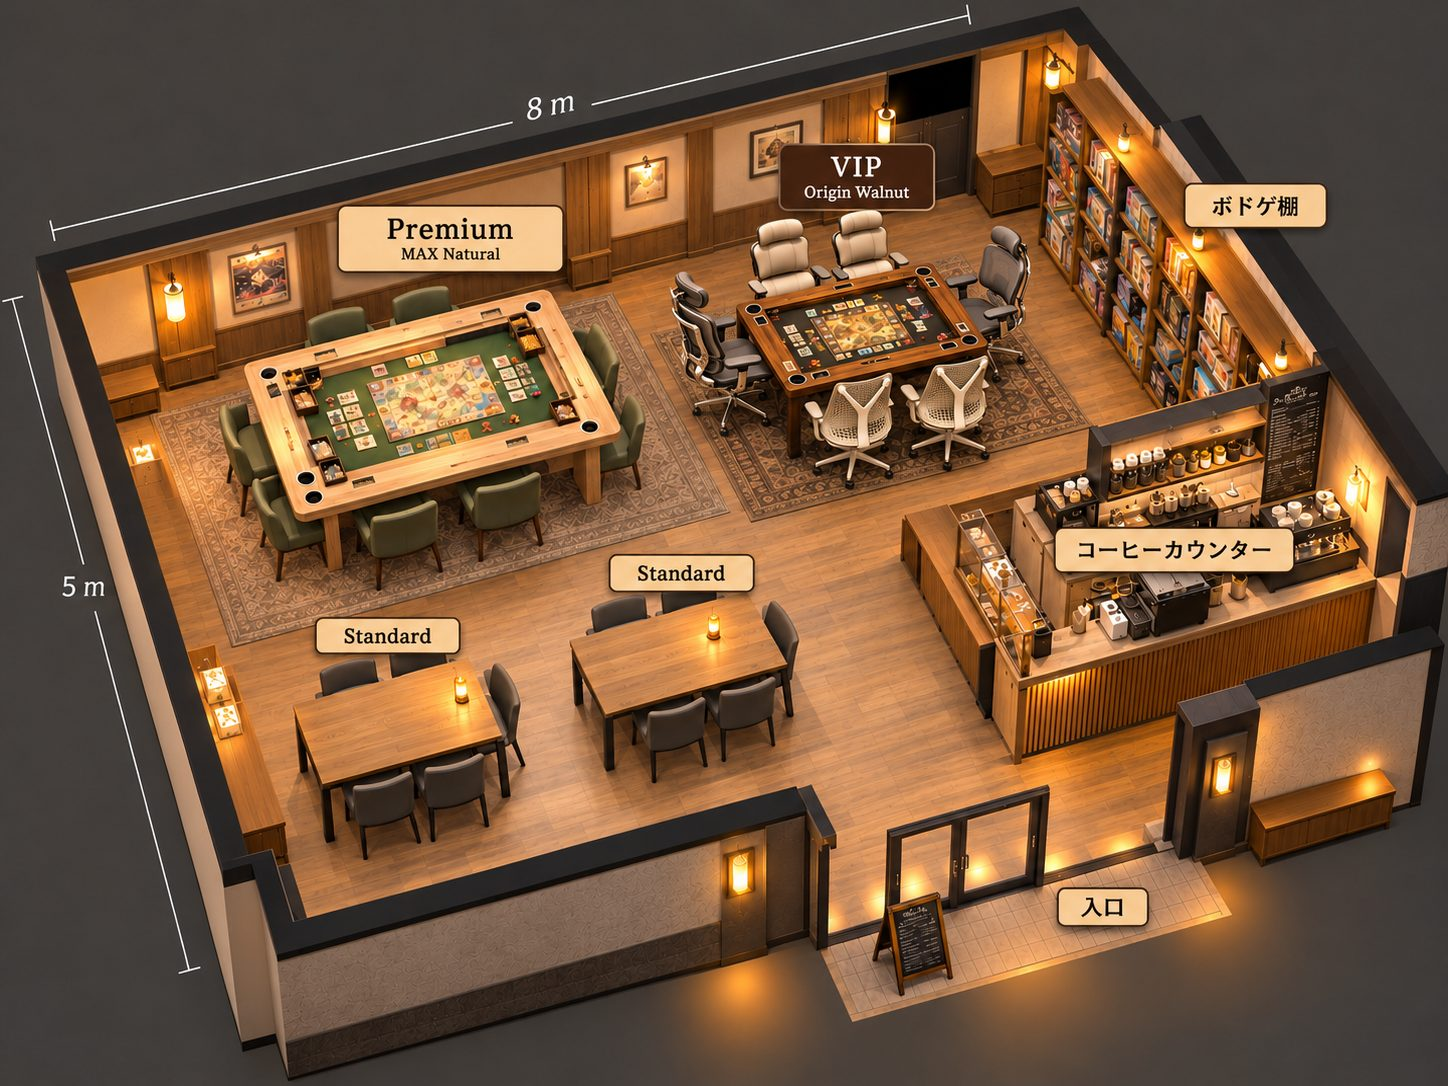
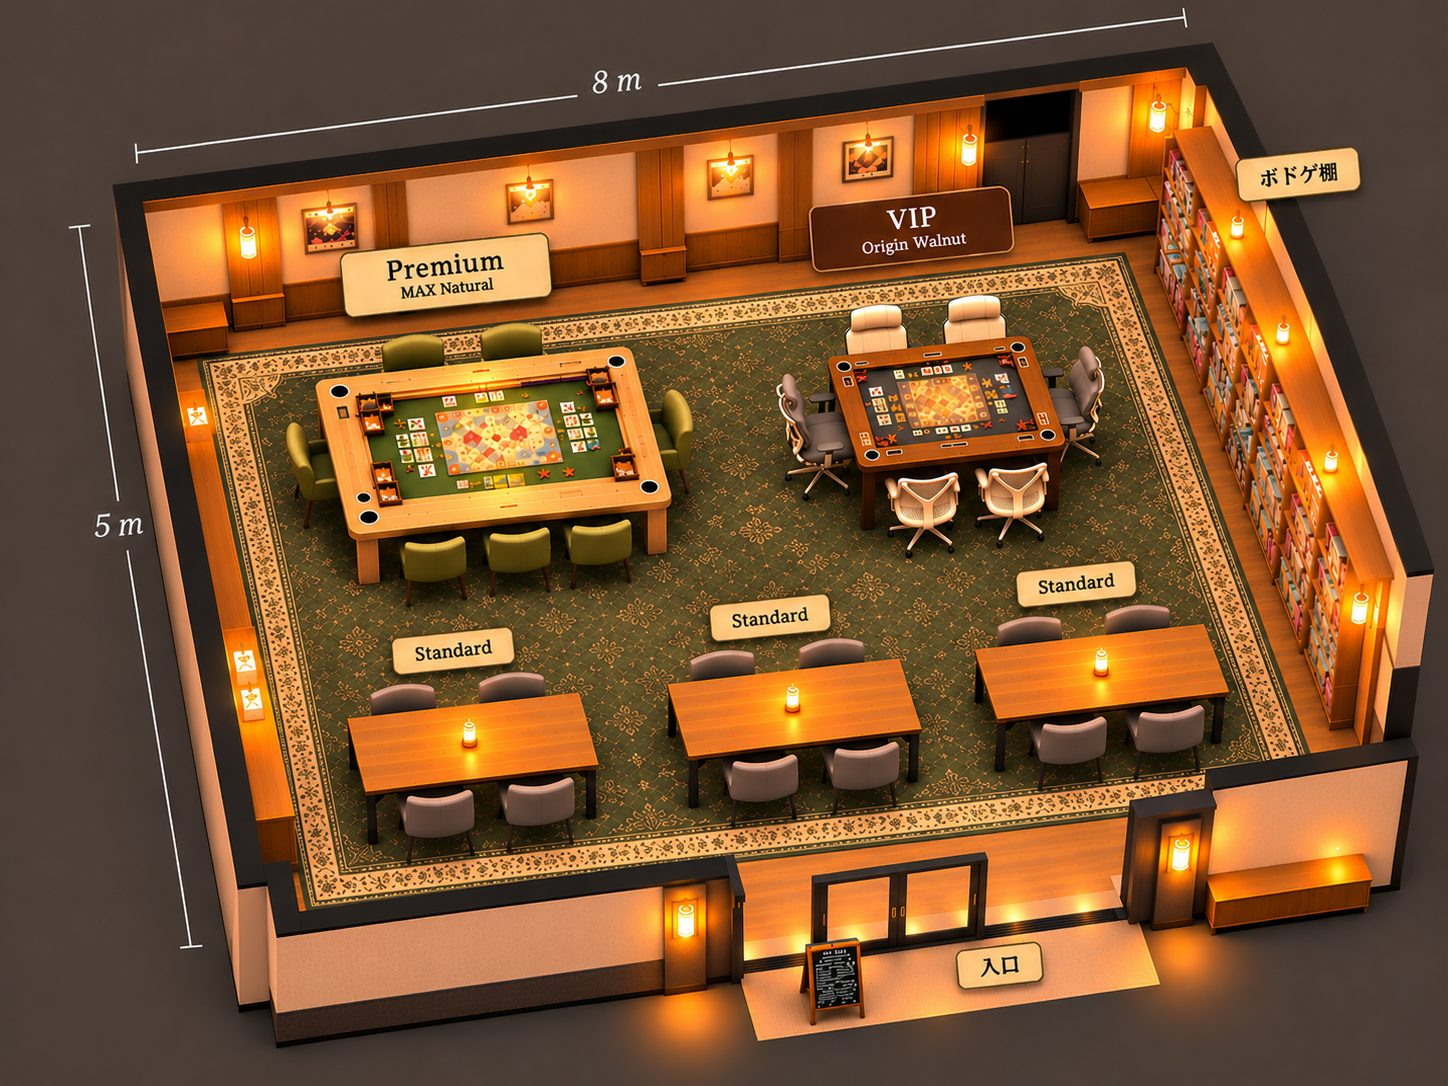
店内イメージを更新（Standard席3卓・コーヒーカウンターなし）
- interior.png を差し替え、表示用の interior.jpg を作り直し
- 画像の代替テキストを新しい店内図に合わせて修正

diff --git a/index.html b/index.html
@@ -681,7 +681,7 @@ section{padding:80px 0}
       </div>
       <figure class="space-figure">
         <img src="images/interior.jpg" width="1448" height="1086" loading="lazy"
-             alt="無人ボードゲームラウンジGeek Denの店内図。ボードゲーム専用テーブルのPremium席とVIP席（高級チェア）、Standard席2卓、ボードゲーム棚、コーヒーカウンター、入口">
+             alt="無人ボードゲームラウンジGeek Denの店内図。ボードゲーム専用テーブルのPremium席とVIP席（高級チェア）、Standard席3卓、ボードゲーム棚、入口">
         <figcaption>店内イメージ（物件決定前のイメージです。実際のレイアウトとは異なる場合があります）</figcaption>
       </figure>
       <ul class="space-list">
